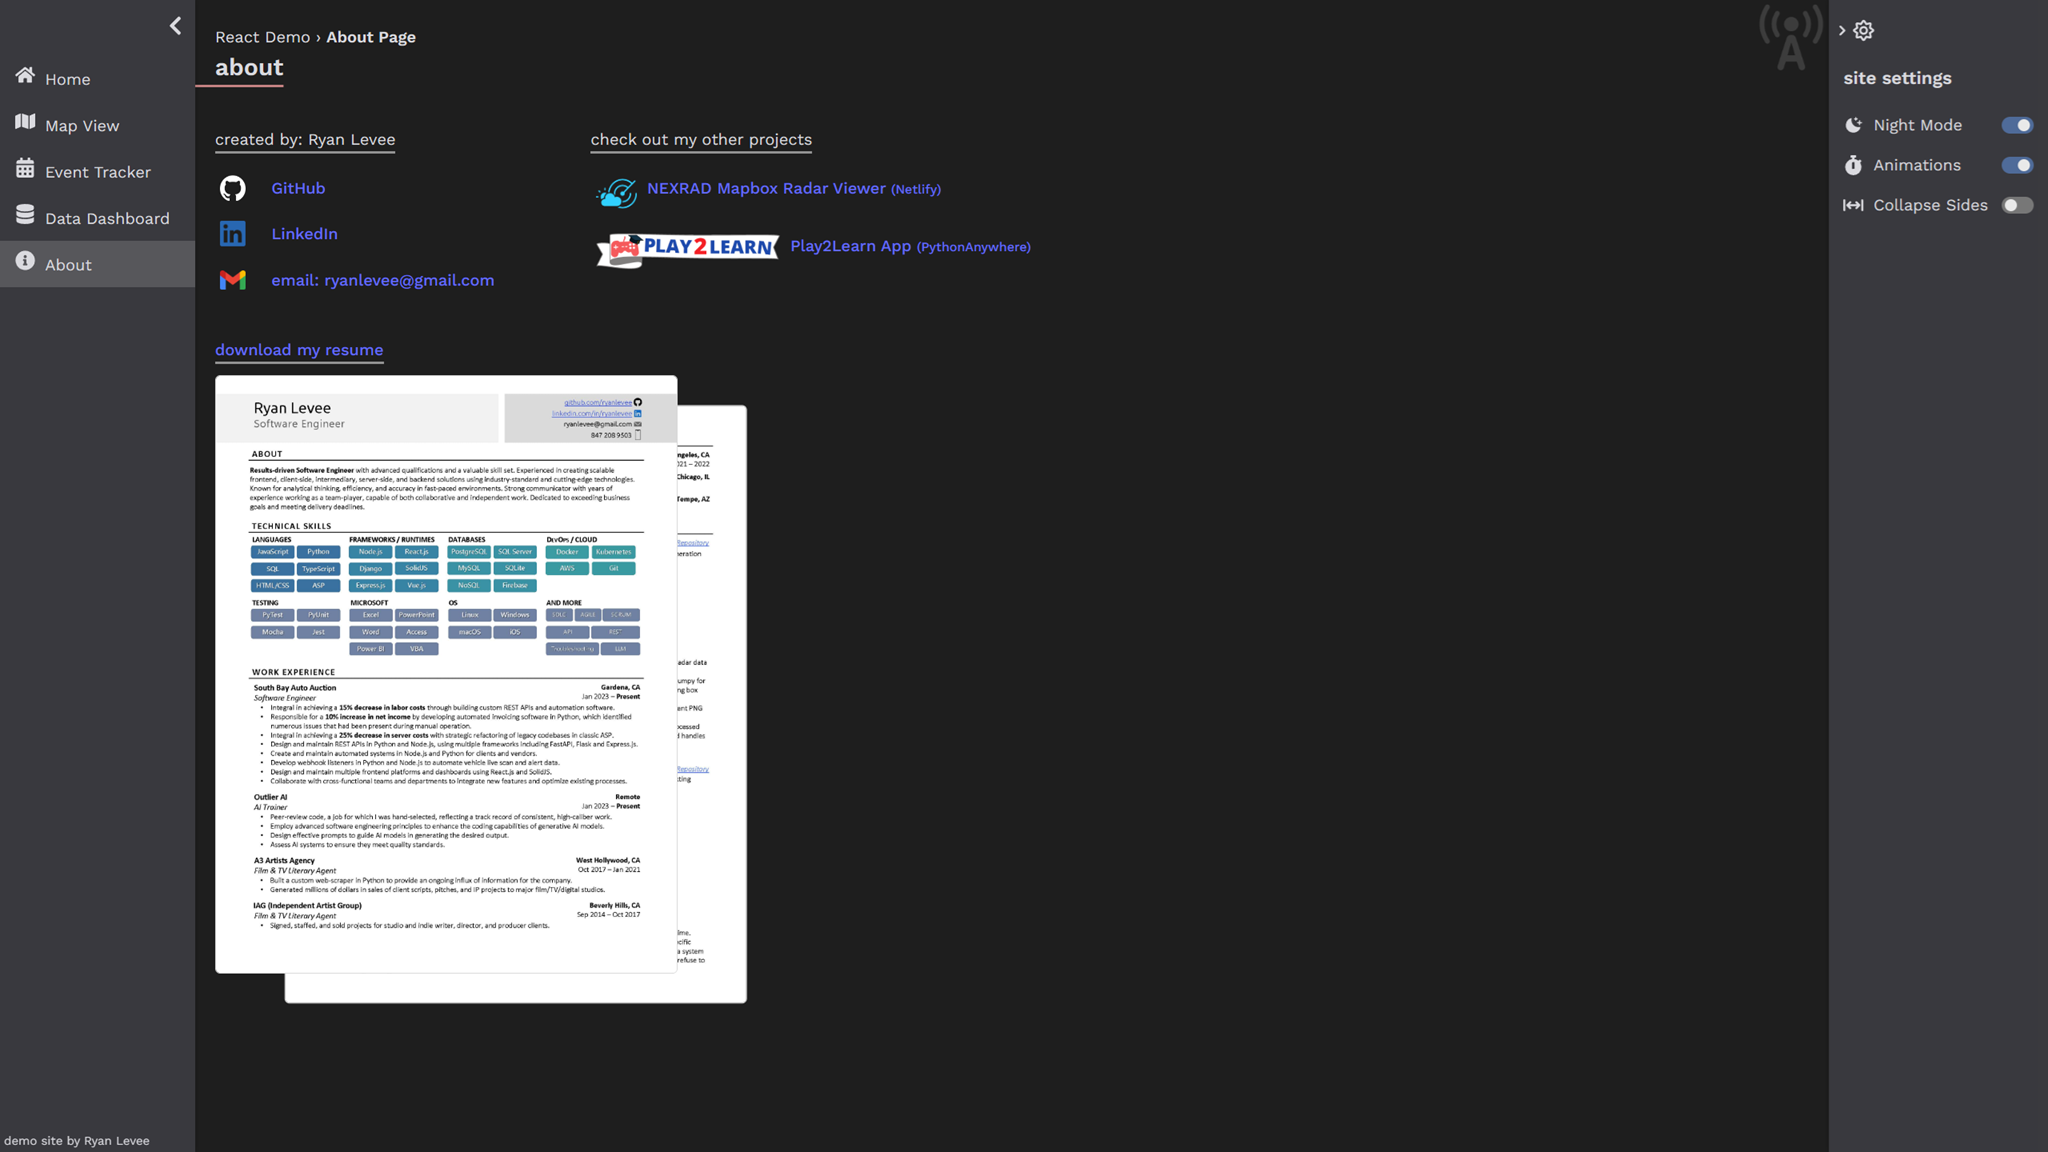
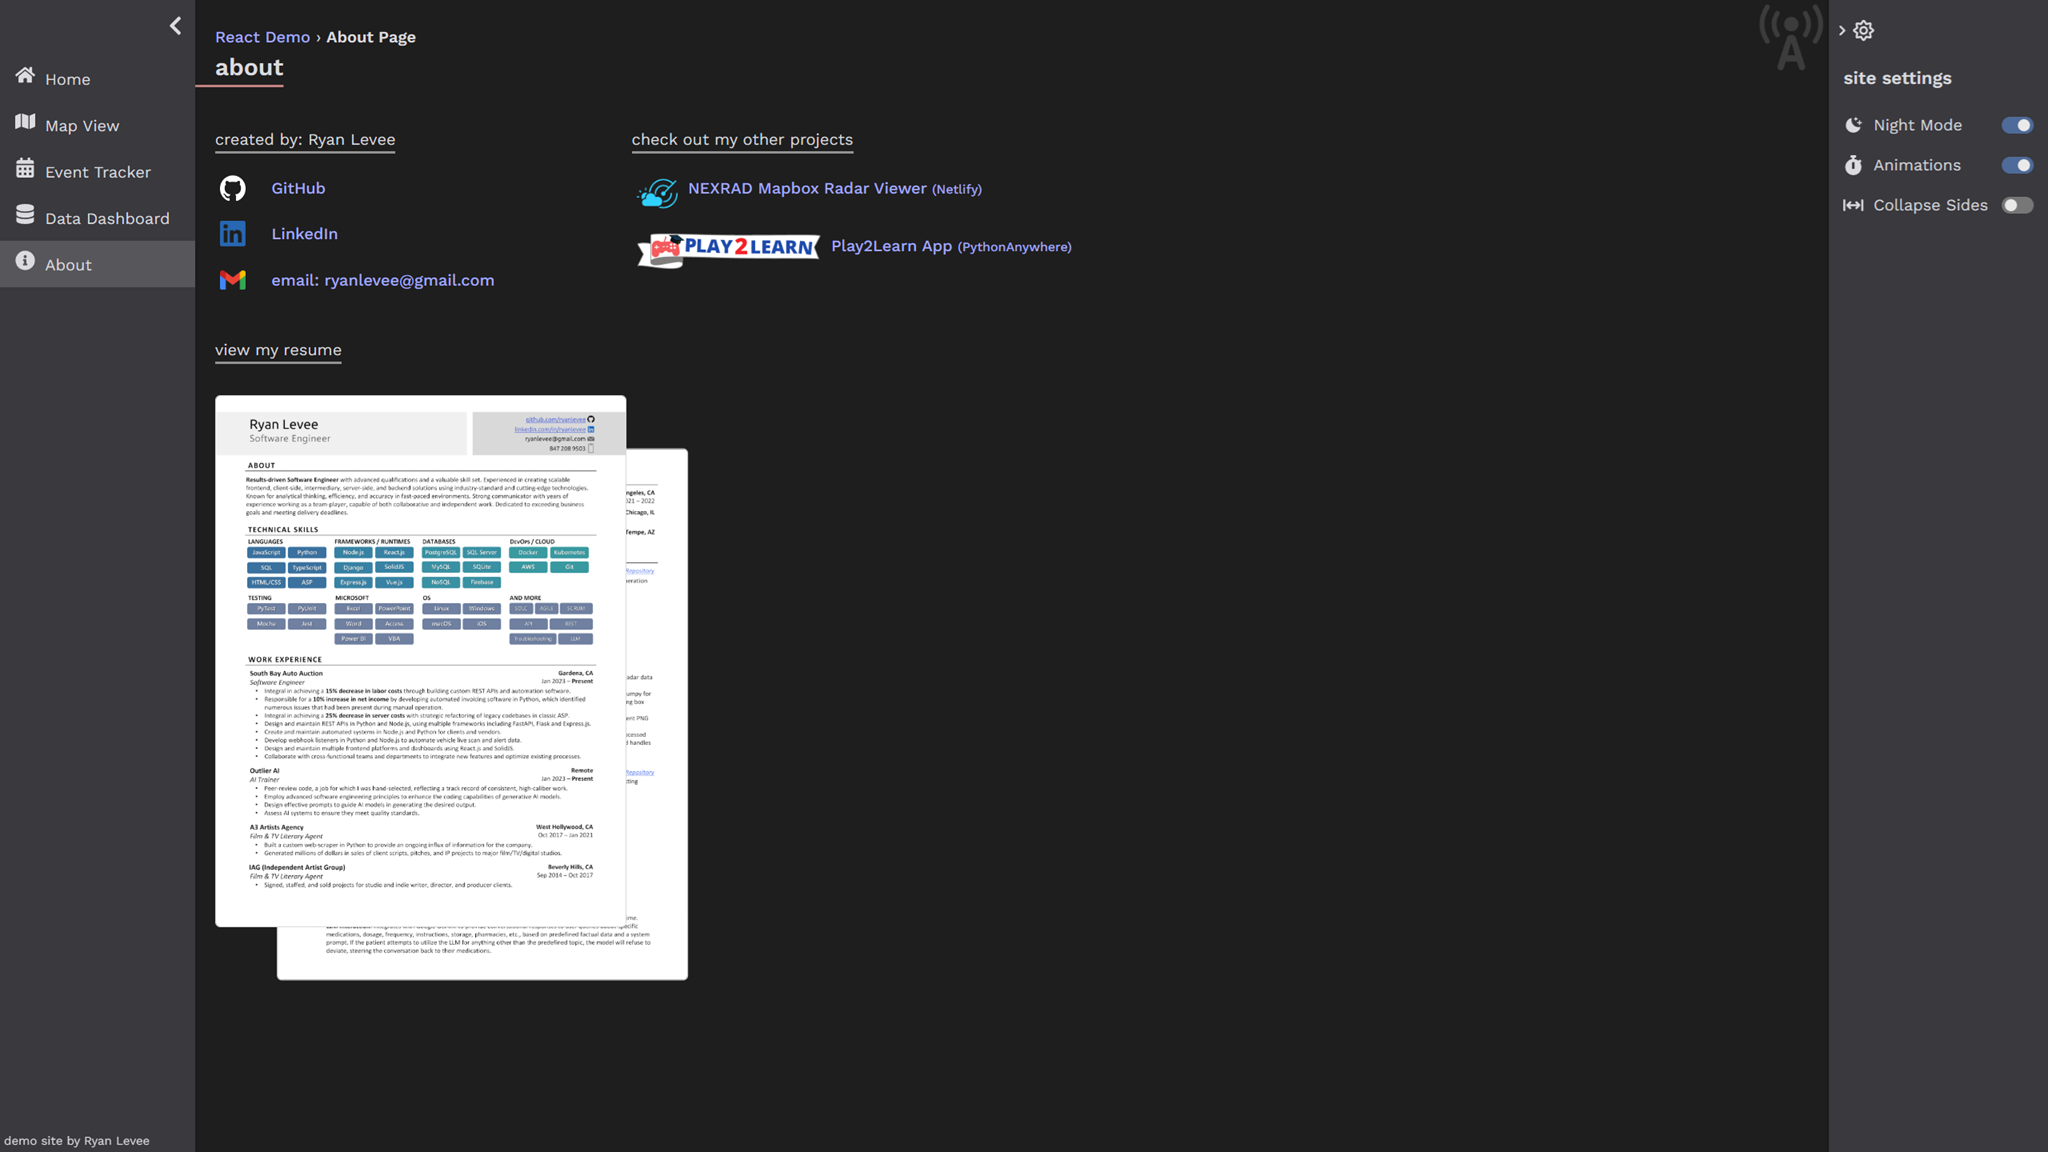
card pngs and about resume overlay

diff --git a/src/styles/about.css b/src/styles/about.css
@@ -7,6 +7,7 @@ body:has(.about-resume-container.zoom) {
     .about-projects-container {
         opacity: 0;
         transition: opacity 0.5s ease-in-out;
+        z-index: 0;
     }
 }
 
@@ -60,7 +61,7 @@ body:has(.about-resume-container.zoom) {
         position: fixed;
         top: 0;
         left: 0;
-        background: rgb(56, 58, 63);
+        background: rgb(60, 62, 66);
         z-index: 2;
         height: 100vh;
         width: 100vw;
